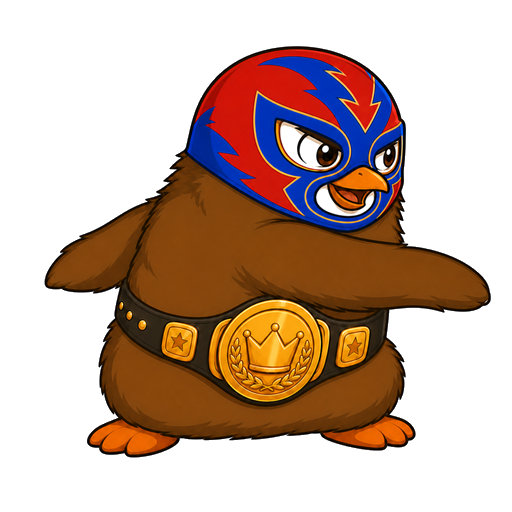
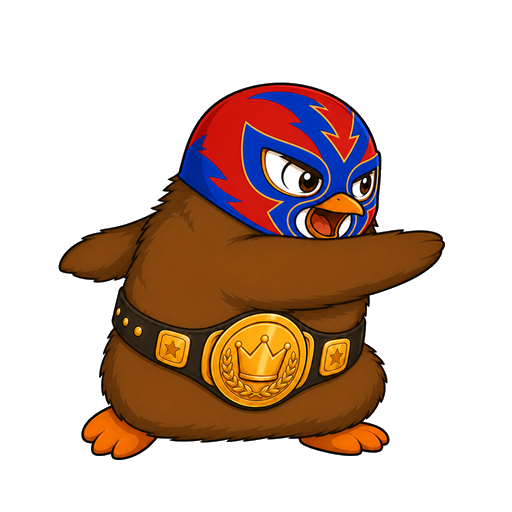
九張摔角動作幀上線:三條連段在畫面上終於是三個動作
- 頭槌(後仰蓄勢→面具朝前撞出+塵)/大足踢(提膝→全伸展直線踢)/肘擊墜落(騰空舉肘→折身砸落)/
  炸彈摔(頭下腳上水滴下墜slam_1→落地全身壓扁slam_2)/手刀第三幀改回彈(不過身)
- 接線:下墜段用slam_1、落地定格slam_2(poseAfter 0.28s)、幀分派表補slamland
- 遊戲內驗證:頭槌撞擊幀成立(面具朝前撞進爆點,不再是揮手刀)

Changed region(s): [[0.0625, 0.0625, 0.9688, 0.9062]]

diff --git a/src/render.js b/src/render.js
@@ -244,6 +244,7 @@ const FRAME_DEFS = {
    缺圖一律退回 punch（絕不退回 idle）。 */
 const POSE_FRAMESET = {
   head: 'headbutt', kick: 'bigboot', knee: 'bigboot', elbow: 'elbow', hold: 'grab',
+  slamland: 'slam',
 };
 const ACC_IMGS = {};   // charId -> Image（頭部配件）
 const FX_IMGS = {};    // fx 名 -> Image（招式特效貼圖，黑底發光）
@@ -327,7 +328,13 @@ function pickFrame(p) {
     return pick('dash', Math.floor(t * 10) % 2);
   }
   if (p.grabState) return pick('grab', p.grabState.mode === 'hold' && p.stillHold > 0.2 ? 1 : 0);
-  if (p.airSlam) return pick('grab', 1);   // 舉人過頂：滯空全程雙翅高舉，不是抱著人走路
+  if (p.airSlam) {
+    const kA = p.airSlam.t / (p.airSlam.dur || 1);
+    if (p.airSlam.slam || kA > 0.91) {
+      if (ok(src, 'slam', 0) || ok(BASE_FRAMES, 'slam', 0)) return pick('slam', 0);   // 頭下腳上砸落
+    }
+    return pick('grab', 1);   // 舉人過頂：滯空全程雙翅高舉，不是抱著人走路
+  }
   if (p.pose && p.pose.prio >= 0 && p.pose.type !== 'stomp') {
     // 手刀走絕對毫秒：接觸幀必須涵蓋 110~180ms 的判定窗——
     // 兩套時間軸（畫面百分比 vs 判定毫秒）只重疊 7ms 就是「手刀沒力」的機械原因

diff --git a/src/engine.js b/src/engine.js
@@ -920,6 +920,7 @@ function startGrab(e, d) {
 function doAirSlam(a) {
   const p = G.player, e = a.e;
   p.airSlam = null;
+  p.poseAfter = { type: 'slamland', t: 0.28 };   // 落地壓扁定格（slam_2）
   p.staggerT = Math.max(p.staggerT, 0.35 + 0.65 * (a.dizzy || 0));   // 掄越久，落地後越站不穩
   sfx('throw_hit');
   addHitstop(0.16, true);
